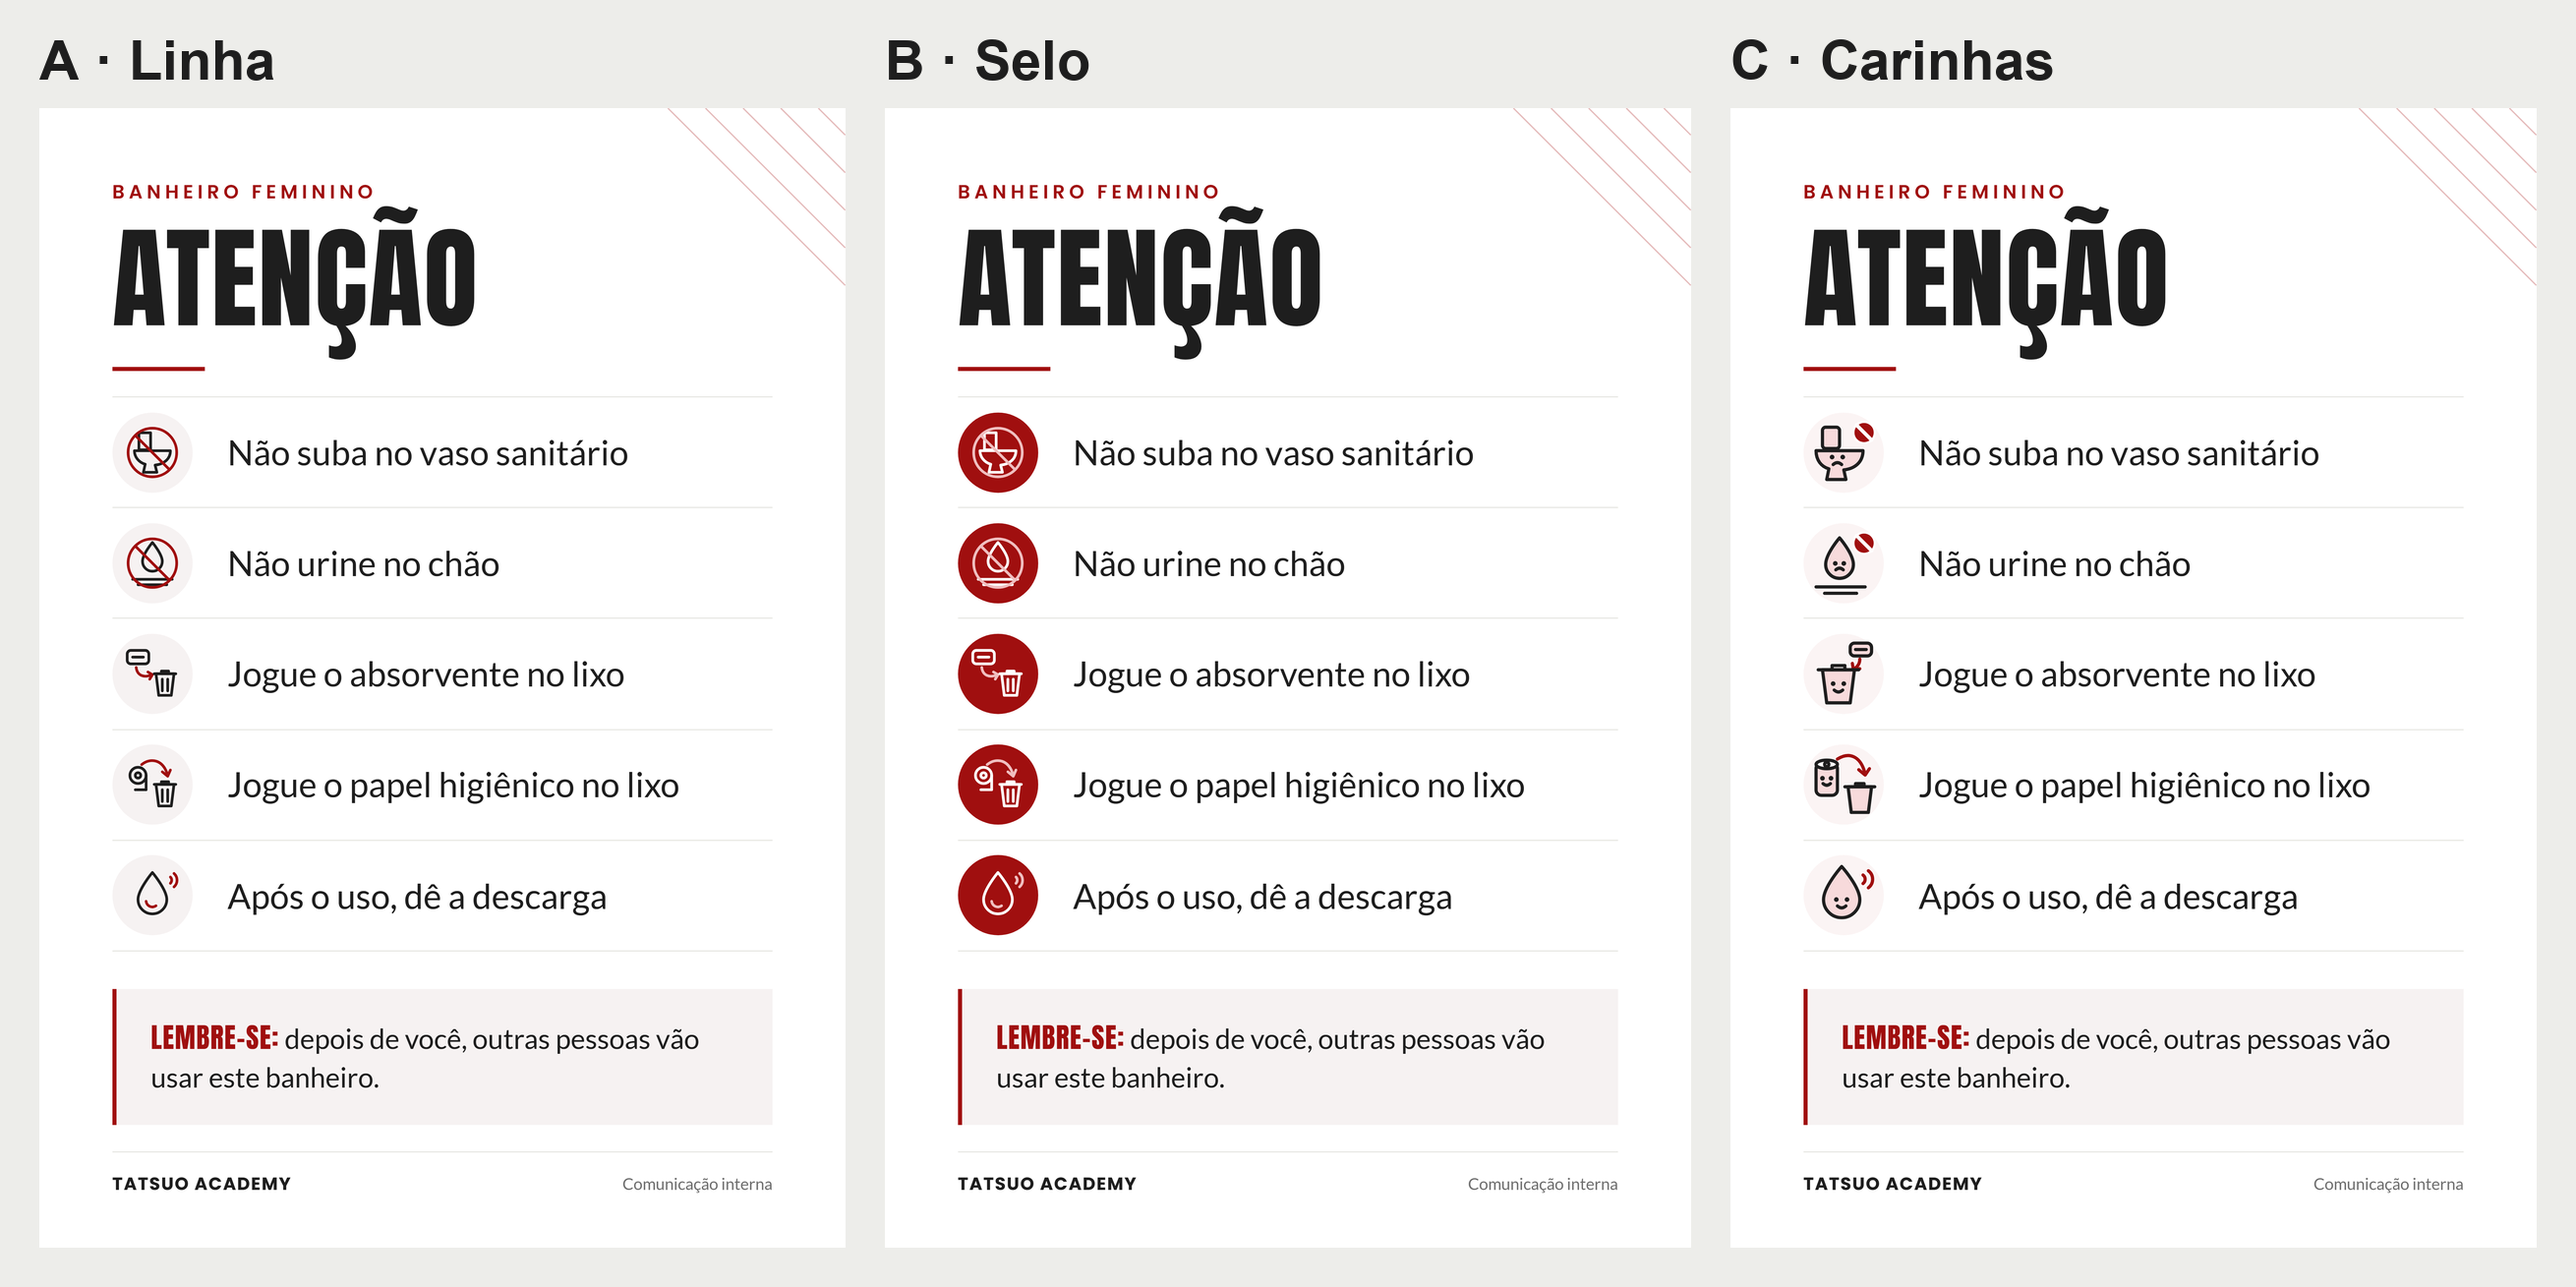
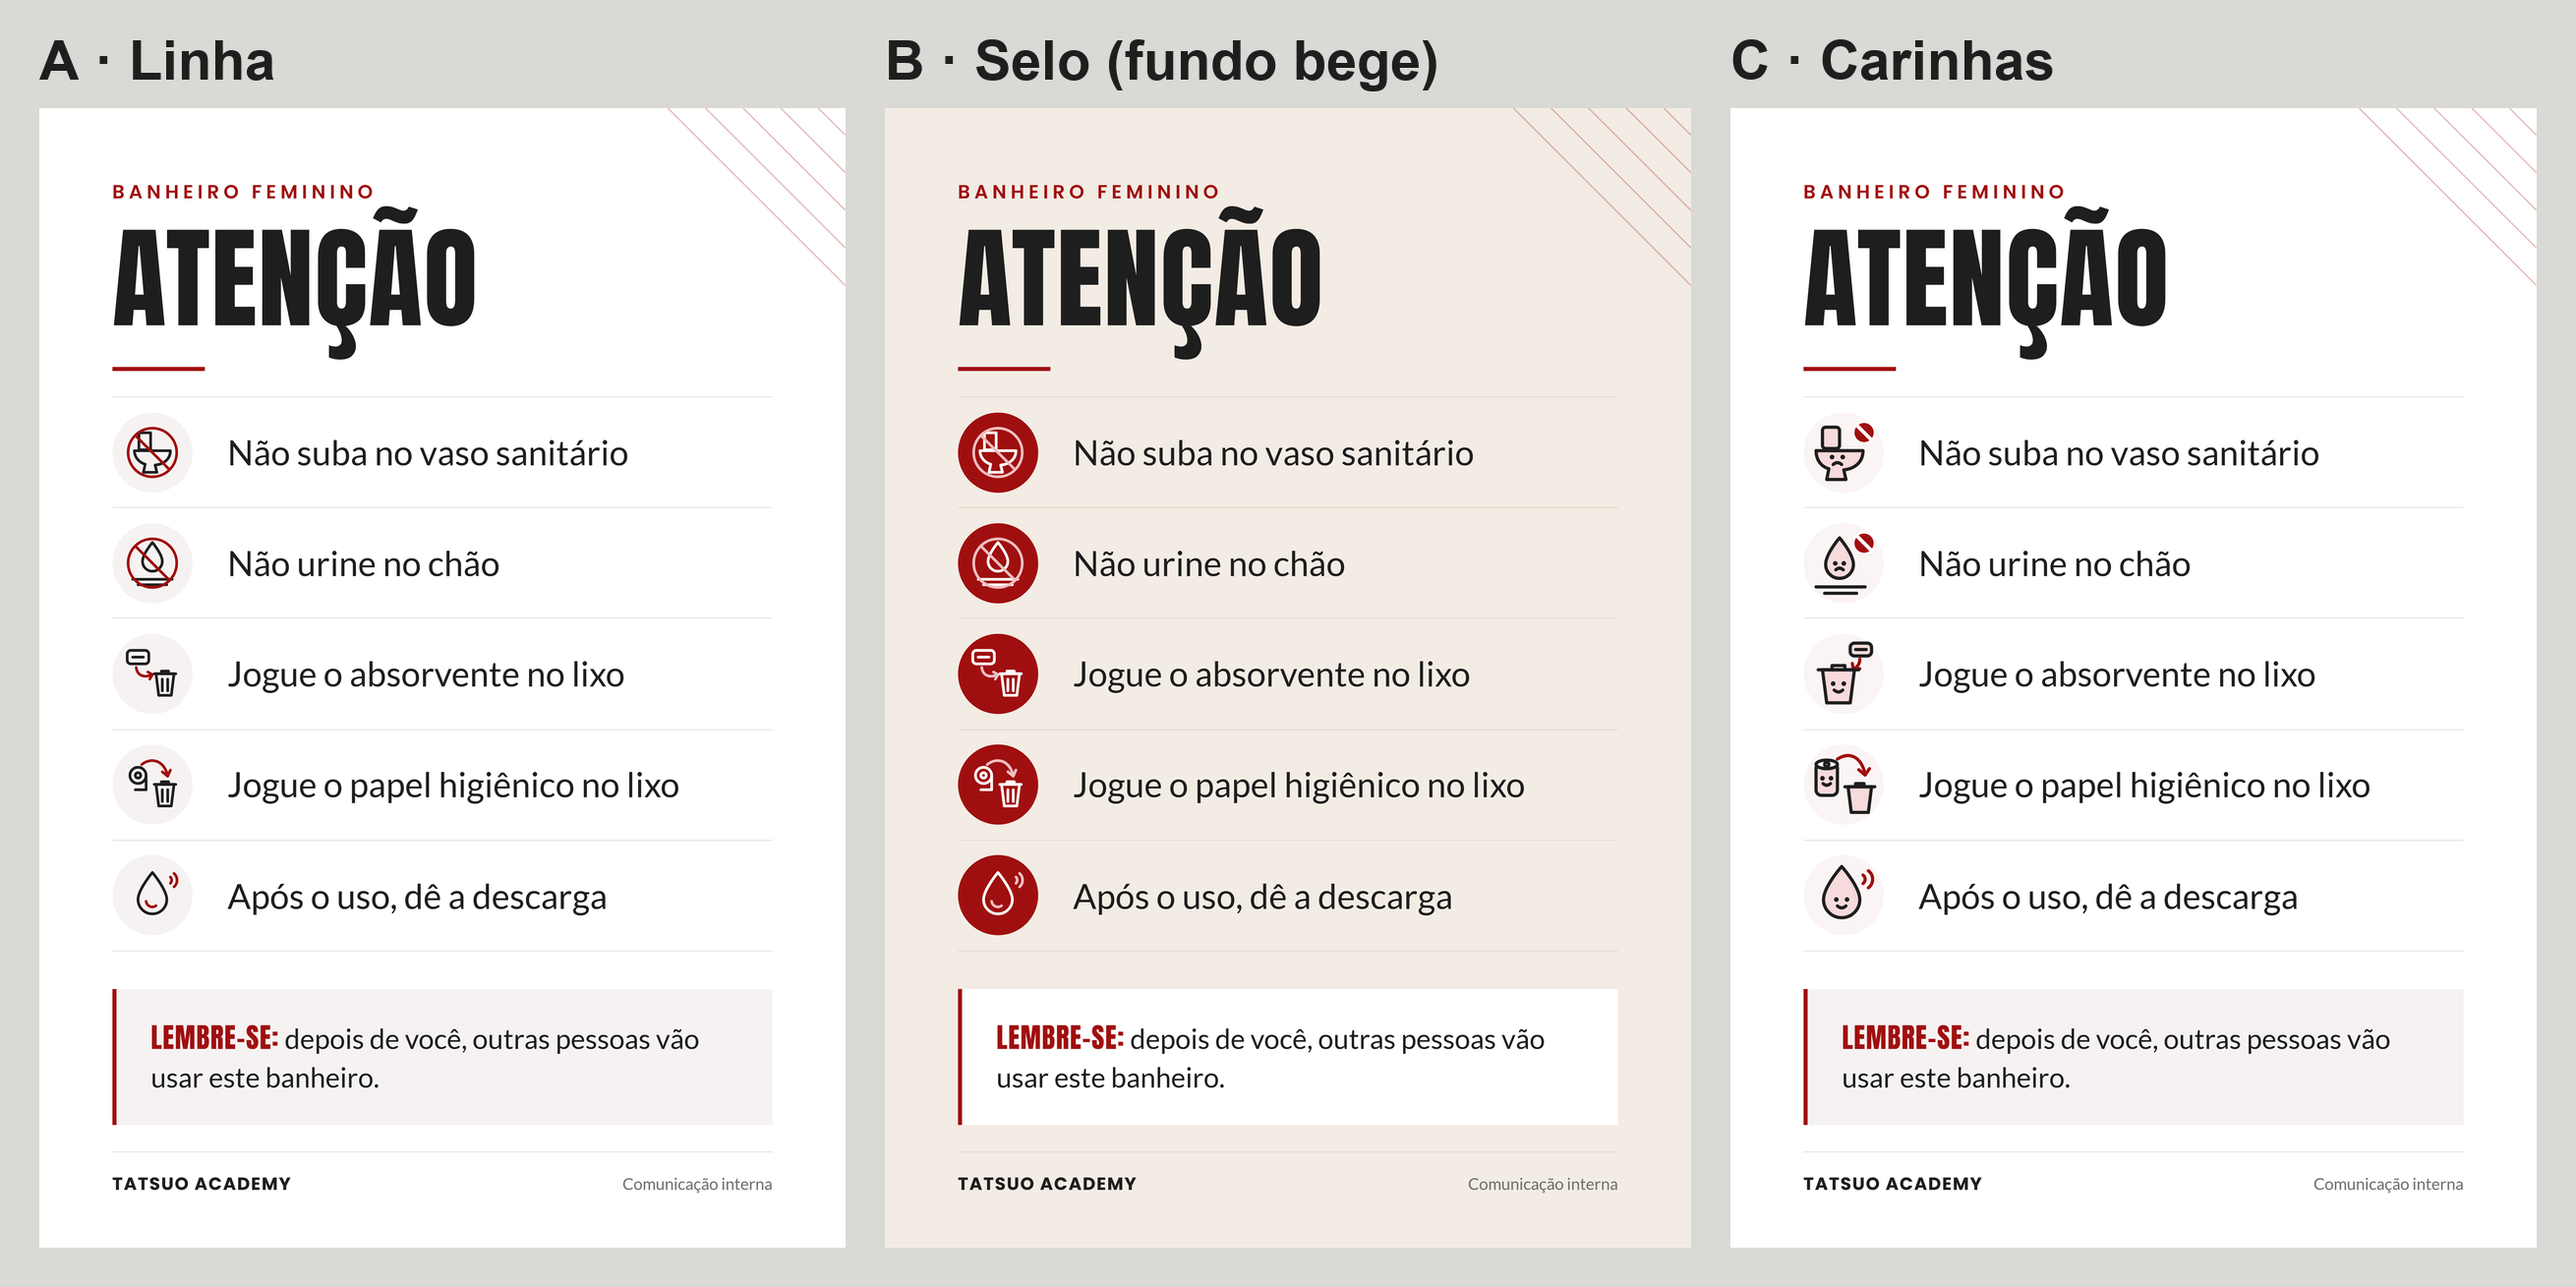
Opção B (selo) das placas de banheiro com fundo bege

Changed region(s): [[0.3401, 0.0306, 0.6802, 0.9778]]

diff --git a/conteudo/comunicacao-interna/opcoes-icones/banheiro-masculino-B-selo.html b/conteudo/comunicacao-interna/opcoes-icones/banheiro-masculino-B-selo.html
@@ -43,7 +43,8 @@ html { font-size: 10mm; } html, body { width: 210mm; height: 297mm; }
   li .ico { flex: none; width: 2.1rem; height: 2.1rem; border-radius: 50%; background: var(--card); padding: .3rem; }
   li .ico svg { width: 100%; height: 100%; display: block; }
   li .ico .v { stroke: var(--verm); } li .ico .f { fill: var(--verm); stroke: none; }
-  li .ico { background: var(--verm); } li .ico svg { stroke: #fff; } li .ico .v { stroke: #F0BEBF; } li .ico .f { fill: #F0BEBF; }</style></head>
+  body { background: #F2ECE4; } .lembrete { background: #fff; } ol, li { border-color: #E2DBD0 !important; } .rodape { border-top-color: #E2DBD0; }
+    li .ico { background: var(--verm); } li .ico svg { stroke: #fff; } li .ico .v { stroke: #F0BEBF; } li .ico .f { fill: #F0BEBF; }</style></head>
 <body><svg class="diag" style="width:7rem;height:7rem" viewBox="0 0 100 100">
   <line x1="34" y1="0" x2="100" y2="66" stroke-width="0.5"/><line x1="48" y1="0" x2="100" y2="52" stroke-width="0.5"/><line x1="62" y1="0" x2="100" y2="38" stroke-width="0.5"/><line x1="76" y1="0" x2="100" y2="24" stroke-width="0.5"/><line x1="90" y1="0" x2="100" y2="10" stroke-width="0.5"/></svg>
   <header><div class="kicker">Banheiro masculino</div><h1 class="titulo">Atenção</h1><div class="regua"></div></header>

diff --git a/conteudo/comunicacao-interna/opcoes-icones/banheiro-feminino-B-selo.html b/conteudo/comunicacao-interna/opcoes-icones/banheiro-feminino-B-selo.html
@@ -43,7 +43,8 @@ html { font-size: 10mm; } html, body { width: 210mm; height: 297mm; }
   li .ico { flex: none; width: 2.1rem; height: 2.1rem; border-radius: 50%; background: var(--card); padding: .3rem; }
   li .ico svg { width: 100%; height: 100%; display: block; }
   li .ico .v { stroke: var(--verm); } li .ico .f { fill: var(--verm); stroke: none; }
-  li .ico { background: var(--verm); } li .ico svg { stroke: #fff; } li .ico .v { stroke: #F0BEBF; } li .ico .f { fill: #F0BEBF; }</style></head>
+  body { background: #F2ECE4; } .lembrete { background: #fff; } ol, li { border-color: #E2DBD0 !important; } .rodape { border-top-color: #E2DBD0; }
+    li .ico { background: var(--verm); } li .ico svg { stroke: #fff; } li .ico .v { stroke: #F0BEBF; } li .ico .f { fill: #F0BEBF; }</style></head>
 <body><svg class="diag" style="width:7rem;height:7rem" viewBox="0 0 100 100">
   <line x1="34" y1="0" x2="100" y2="66" stroke-width="0.5"/><line x1="48" y1="0" x2="100" y2="52" stroke-width="0.5"/><line x1="62" y1="0" x2="100" y2="38" stroke-width="0.5"/><line x1="76" y1="0" x2="100" y2="24" stroke-width="0.5"/><line x1="90" y1="0" x2="100" y2="10" stroke-width="0.5"/></svg>
   <header><div class="kicker">Banheiro feminino</div><h1 class="titulo">Atenção</h1><div class="regua"></div></header>

diff --git a/conteudo/comunicacao-interna/gerar.js b/conteudo/comunicacao-interna/gerar.js
@@ -85,7 +85,8 @@ const ICONES_C = {
 const icone = (k, estilo) => `<svg viewBox="0 0 64 64" fill="none" stroke="#1E1E1E" stroke-width="3" stroke-linecap="round" stroke-linejoin="round">${(estilo === 'carinha' ? ICONES_C : ICONES)[k]}</svg>`;
 // Variações de ícone: linha (A, padrão), selo (B: desenho branco no círculo vermelho), carinha (C).
 const ESTILO_ICONE = {
-  selo: `li .ico { background: var(--verm); } li .ico svg { stroke: #fff; } li .ico .v { stroke: #F0BEBF; } li .ico .f { fill: #F0BEBF; }`,
+  selo: `body { background: #F2ECE4; } .lembrete { background: #fff; } ol, li { border-color: #E2DBD0 !important; } .rodape { border-top-color: #E2DBD0; }
+    li .ico { background: var(--verm); } li .ico svg { stroke: #fff; } li .ico .v { stroke: #F0BEBF; } li .ico .f { fill: #F0BEBF; }`,
   carinha: `li .ico { padding: .16rem; background: #FBF4F4; } li .ico .r { fill: #F7DADB; } li .ico .p { fill: #1E1E1E; stroke: none; }
     li .ico .b { fill: var(--verm); stroke: #fff; stroke-width: 2; } li .ico .bw { stroke: #fff; stroke-width: 3.4; }`,
 };
